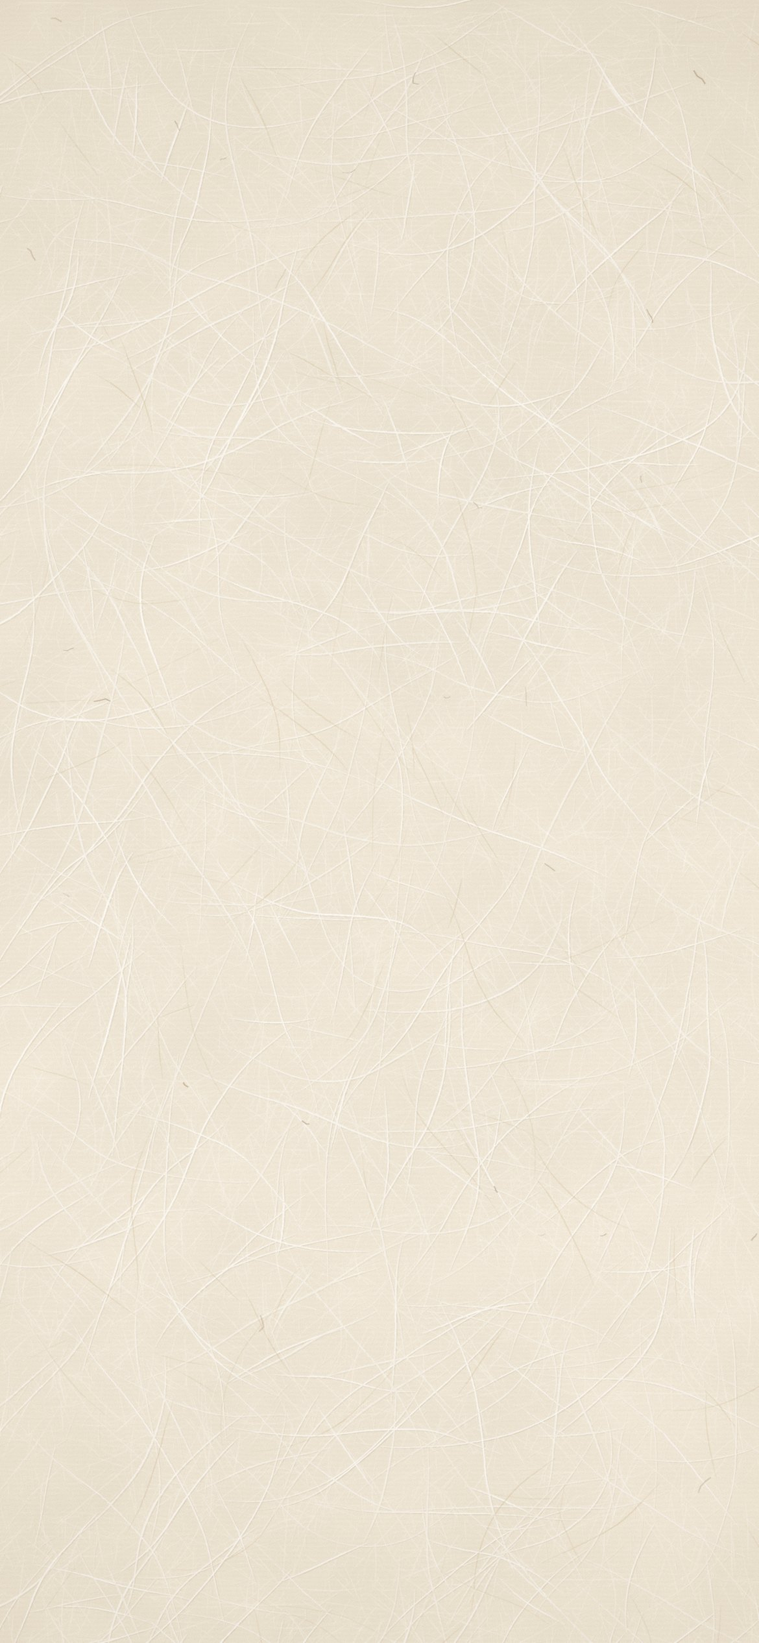
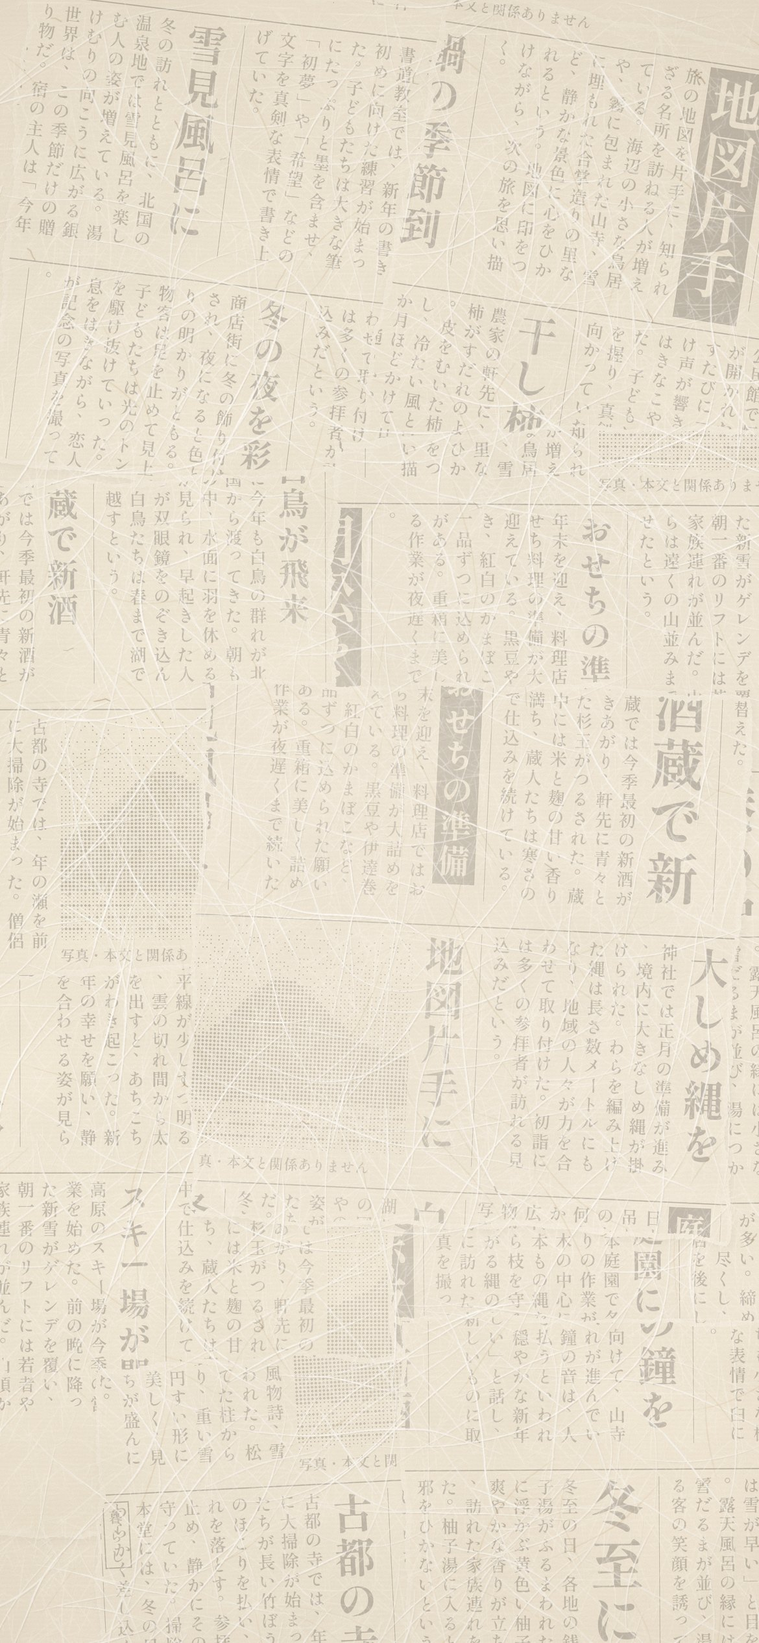
Calendrier de l'Avent (mode développeur) : l'écharpe du mouton autour du cou, des journaux sous le washi du fond d'écran du prénom.
Le propriétaire : « remets bien l'écharpe du mouton. Et tu peux mettre aussi des papiers journaux en arrière-plan du washi sur le fond d'écran. »

- Carte de vœux (case 15) : l'écharpe est un col qui passe sous la mâchoire et dont les bouts remontent derrière la tête, le nœud et ses deux pans frangés devant, à droite du menton (la bande d'avant paraissait coupée).
- Case 1 : sous le papier washi, on devine des morceaux déchirés de journal japonais (colonnes verticales, titres, filets, quelques « photos » en trame). Les pages sont inventées : 24 articles écrits pour ce fond (l'hiver, les temples, les onsen, le nouvel an), sans personne réelle, sans fait divers ni nom de journal ; police Shippori Mincho B1 (OFL), celle de la boutique. Le journal est plus discret derrière la colonne du prénom.

diff --git a/instructions/carte.md b/instructions/carte.md
@@ -410,14 +410,14 @@ On 2026-11-10 the owner asked to prepare Christmas: an Advent calendar from 1 to
 - **When.** `CONFIG.noel = { debut: '2026-12-01', fin: '2026-12-26', public: false }`. `noelVoulu` (`app.js`): never after `fin` nor with `?ambiance=non`; always in developer mode before `fin` (also before `debut`, to prepare it); else only if `public`, from `debut`. `majNoel` runs like `majHalloween` (1.8 s after start, every minute, in `basculerDev`).
 - **`noel.js`** (its own `TEXTES`, en/fr/ja for the interface). `CASES`: `j`, `k` (`boutique`, `telecharger`, `balade`, `carte`), `lieu` (the place's id: slug of its English name, as in `?voyage=`), `pret` (the gift exists), `special` (`prenom`), `fichier` (a download: see « The downloads »), `code`, and `cadeau`/`texte`/`deco`/`savais` in en and fr (`cadeau` also in ja; the rest falls back to English in Japanese: write it before the release). `jourReel()`: 0 before 1 December, 1–24, 25 after (local dates, days counted between local midnights with `Math.round` for the clock change). Opened boxes: `localStorage.calendrierOuvert`. **Developer mode** adds a « Simulated day » range (24 by default before December) and « Close every box »; boxes opened while simulating are kept apart (`calendrierOuvertEssai`), so the owner's real calendar starts empty.
 - **The panel** (`#panneau-noel`, a `PANNEAUX` entry, `ouvrirNoel`; button `#btn-noel` with a gift icon, also a phone shortcut top right beside 3D and favourites, sized like Halloween's three; phone menu tile `#menu-noel`). Doors in 5 columns, 24 spanning two: locked (`.a-cle`, a toast says when it opens), today (`.du-jour`, red rule), opened (`.ouverte`: the paper leaf turns away, 550 ms, then the box shows under the doors and scrolls into view). A red dot on the button and the menu tile (`.a-ouvrir`) while today's box is closed. The box: date, gift, kind pill, text, its special block, « Being made » (developer mode only) while `pret` is false, the place (« See the place and its video »: `allerAuLieu`, closes the panel), « On the map today », « Did you know? ».
-- **Gifts ready.** Day 1, « Your name in Japanese » (`fondPrenom`): a 1170 × 2532 PNG on washi paper (2026-11-22, the owner: « le fond du fond d'écran du prénom peut être en style papier washi »): `noel/washi.jpg` (1170 × 2532, about 300 KB, drawn with its darker edges) and `noel/washi-apercu.jpg` (312 × 675, the box's preview), both computed by `washi.py` (the 2026-11-21/22 session's `scratchpad/noel`, fixed seed): a cream pulp with soft clouds, faint bamboo-screen lines, a felt of short fibres, long white kōzo fibres that taper and wave gently (curvature that returns to zero: a free random walk curled them into hair-like loops, a damped one too much made straight scratches) with a thin shadow on one side, a few gold fibres and few pale bark strands (dark specks looked like dust on the screen); it replaced newspaper #ece0d0 with the map's grain. The katakana in one column centred at 58 % of the height (the top is left to the lock-screen clock; `ー` turned upright, small kana nudged up and right), the name in spaced capitals, INKAMI.ART, the 墨紙 seal (`noel/sceau-inkami.png`). The preview's seal and INKAMI.ART have the image's sizes too (`cqw`, % of the frame; they were 17 px and 4.5 px, larger than on the image). The live preview in the box is that wallpaper in small (2026-11-22, the owner: « quand tu écris un nom un peu trop grand, ça dépasse de l'écran »): the same sizes and places (`FOND_L`, `FOND_H`, `FOND_COLONNE`, `FOND_CENTRE`, `tailleFond` in `noel.js`), the column's top and the name's line in % of the height, their sizes in `cqw` (the phone frame is a size container); it used its own sizes (the column 190 px in a 225 px frame) and an 8-letter name ran out of it. A very long name in letters is squeezed: `scale` on the canvas, `scaleX` on the preview (one measure per key typed). The brush is the shop's own font (`noel/inkami-pinceau.woff2`: Yuji Boku cut to katakana + 芸者侍, OFL) and `enKatakana` is copied from the shop's `theme/source/katakana.js` (plus Emily, James, Louise, the names of its calligraphy videos); a live HTML preview while typing; share sheet on touch screens, download elsewhere. Day 20, « Christmas night over Japan »: `noel/fond-nuit-de-noel-{l}.jpg`, see the downloads below.
+- **Gifts ready.** Day 1, « Your name in Japanese » (`fondPrenom`): a 1170 × 2532 PNG on washi paper (2026-11-22, the owner: « le fond du fond d'écran du prénom peut être en style papier washi »): `noel/washi.jpg` (1170 × 2532, about 300 KB, drawn with its darker edges) and `noel/washi-apercu.jpg` (312 × 675, the box's preview), both computed by `washi.py` (the 2026-11-21/22 session's `scratchpad/noel`, fixed seed): a cream pulp with soft clouds, faint bamboo-screen lines, a felt of short fibres, long white kōzo fibres that taper and wave gently (curvature that returns to zero: a free random walk curled them into hair-like loops, a damped one too much made straight scratches) with a thin shadow on one side, a few gold fibres and few pale bark strands (dark specks looked like dust on the screen); it replaced newspaper #ece0d0 with the map's grain. Under the washi, torn pieces of Japanese newspaper show through (the same evening, the owner: « tu peux mettre aussi des papiers journaux en arrière-plan du washi », like Inkami's portraits on real newspaper): `journal.py` (same folder) sets invented pages (bands of vertical columns, headlines sometimes white on black, thin rules, a few halftone « photos » of a made-up landscape captioned 写真・本文と関係ありません, small section boxes) in Shippori Mincho B1 (OFL, the shop's font), from 24 articles written for it (winter, temples, onsen, New Year customs; no real person, no news story, no newspaper name: the real Sankei scan tried for the shop had an obituary and murders behind the face), then tears 9 pieces (one page each with a different first article, or the same headlines came back four times), smooth torn edges with a 2–10 px white rim of torn core, small shadows, a few degrees of turn. `washi.py` multiplies the pulp by the collage at strength 0.22 (`--transparence=`; 0.32 competed with the name), 30 % less behind the name's column, before the fibres, which stay bright over the print. washi.jpg is now about 520 KB. The katakana in one column centred at 58 % of the height (the top is left to the lock-screen clock; `ー` turned upright, small kana nudged up and right), the name in spaced capitals, INKAMI.ART, the 墨紙 seal (`noel/sceau-inkami.png`). The preview's seal and INKAMI.ART have the image's sizes too (`cqw`, % of the frame; they were 17 px and 4.5 px, larger than on the image). The live preview in the box is that wallpaper in small (2026-11-22, the owner: « quand tu écris un nom un peu trop grand, ça dépasse de l'écran »): the same sizes and places (`FOND_L`, `FOND_H`, `FOND_COLONNE`, `FOND_CENTRE`, `tailleFond` in `noel.js`), the column's top and the name's line in % of the height, their sizes in `cqw` (the phone frame is a size container); it used its own sizes (the column 190 px in a 225 px frame) and an 8-letter name ran out of it. A very long name in letters is squeezed: `scale` on the canvas, `scaleX` on the preview (one measure per key typed). The brush is the shop's own font (`noel/inkami-pinceau.woff2`: Yuji Boku cut to katakana + 芸者侍, OFL) and `enKatakana` is copied from the shop's `theme/source/katakana.js` (plus Emily, James, Louise, the names of its calligraphy videos); a live HTML preview while typing; share sheet on touch screens, download elsewhere. Day 20, « Christmas night over Japan »: `noel/fond-nuit-de-noel-{l}.jpg`, see the downloads below.
 - **The downloads** (owner: « Oui, commence par les téléchargements », 2026-11-10). A box's `fichier` = `{ apercu, url, nom, forme, bouton }` (`{l}` in a path = the visitor's language, fr/en/ja, else en): `blocFichier` shows the preview shaped like the thing (`telephone`, `page`, `carte`, `paysage`) and a button (`fond`, `pdf`, `image`) that fetches the file and sends it to the share sheet on touch screens, else downloads it. All are made once in `site/noel/` from the 2026-11-10 session's `scratchpad/noel/`: `atelier/*.html` are print pages served with the site by `atelier_serveur.py` (127.0.0.1:8124: the site at the root, `/atelier/` the workshop, so they import `/legendes-dessins.js` and share the map's paper and fonts), turned into PDF or PNG by `fabriquer.py <name> [--essai]`.
   - Day 3, `calendrier-2027.pdf` (5.8 MB, A4 landscape, a cover and 12 months, one file for every language): each month a view of the map at its season, rendered by `rendu_calendrier.py` (`?date=2027-MM-DD&heure=11:00`, the borders' layers `lavis*`/`frontieres*` hidden, the HTML markers too, the canvas pins kept; 1600 px JPEG): Gokayama, Lake Kussharo, Fujisan Hongū (cherry petals), Himeji (cherry petals), Fuji Shibazakura, Yakushima, Nachi, Aogashima, Takeda Castle, Nikkō (autumn), Itsukushima (maple leaves), Lake Yamanaka. The map's season particles show by themselves. TikTok covers were too small to print (486 × 648) and the montage videos are not all the owner's footage, so none is used. Weekdays in kanji + English, Saturday blue, Sunday and Japan's 2027 public holidays red, each holiday named (元日 · New Year's Day…, the equinoxes on 21 March and 23 September, substitute holiday 22 March); six-week months get shorter rows.
   - Day 6, `fond-fuji-hiver.jpg` (1170 × 2532): since 2026-11-21 a real photo, see « Real photos for the place wallpapers » below. Until then a map render (`fond_fuji.py`: Fuji from Lake Yamanaka on 2026-12-20 at 15:30, bearing 246, zoom 10.9, pitch 72, with `?points=non` so every pin is an HTML marker and can be hidden, the pins being otherwise drawn on `points.js`'s canvas; borders hidden; the logo band).
   - Day 7, `mots-hiver-{l}.pdf` (2026-11-21, the owner: « un petit document où il y a marqué des mots japonais en rapport avec l'hiver et Noël avec la traduction en anglais et français et une petite description explicative »; about 310 KB, 740 KB in Japanese). Two A4 pages, 24 words, one per day of Advent: winter (冬, 雪, 初雪, 雪だるま, かまくら, こたつ, 鍋, 温泉, 雪見, 樹氷, 冬至, 焼き芋), then Christmas and the New Year (クリスマス, メリークリスマス, サンタさん, クリスマスケーキ, フライドチキン, イルミネーション, お歳暮, 忘年会, 大掃除, 大晦日, 年賀状, お正月). Each: the word in Zen Antique, its hiragana and rōmaji, the English and French translations (red EN/FR labels, the document's language first; 英/仏 in Japanese), and one or two sentences in the document's language; page 2 ends with « あけましておめでとうございます / よいお年を » (in Japanese: Happy New Year / Bonne année). Each word also has a small drawing at its top right (the owner the same day: « si tu peux rajouter quelques illustrations aussi »; and « Le document doit être écrit en français pour la carte en français et en anglais pour la carte en anglais », which it already was): 24 SVG icons in `illus.py`, ink outlines and flat colours like the legends' drawings of the gift tags (a snowy pine, flakes, a cloud, a two-ball snowman with a red bucket, a lit kamakura, a kotatsu with mandarins, a donabe, ♨, sake flask and cup, two snow monsters, yuzu in the bath, a split sweet potato, a decorated tree, two bells, Santa's hat, the strawberry cake, a drumstick, a string of lights, a gift box with mizuhiki, two beer mugs, broom and bucket, the temple bell and its log, a 賀正 card, a kagami-mochi), 40 px, with the word and translation lines padded on the right to leave them room; katakana words of 7 characters or more are set smaller so their rōmaji stays on the line. Map paper, the logo and address at the foot. Made by `mots_hiver.py` (the 2026-11-21 session's `scratchpad/noel`; the words and texts are in it): an HTML page served through a Playwright route on the local server (the logo and the map's fonts), `page.pdf`, the preview = page 1 at 420 × 594. French gets non-breaking spaces before « ; : ! ? » and inside guillemets, English gets “ ”.
   - Day 9, `origami-{l}.pdf` (3 pages, about 2.8 MB; the owner: « Oui, fais l'origami et Gokayama »): two 180 mm squares to cut out, crop marks at the corners, the printed side being the crane's outside: seigaiha waves in the map's sea colours (`#1d5652`, `#8fbab2`) and asanoha hemp leaves in the map's red with pale-gold lines (a triangular lattice and, in each triangle, the lines from its corners to its centre), each with a short note on the pattern's meaning; page 3 the crane in 12 steps (3 × 4 panels, captions of at most three lines in all three languages, a key: valley, mountain, turn over). The panels are computed, not drawn by hand (`origami.html`: a square of side 2 laid as a diamond; the kite folds are the bisectors from the bottom point, the petal fold the reflection of the bottom point over the horizontal crease, the narrowing the bisector again, neck and tail the leg triangle reflected over a crease that bisects « down » and the neck's 65° direction, the head the same at 0.24 from the tip), so every shape is where the paper really goes; only the finished crane (step 12) is drawn by hand. `regarder_ori.py [lang] [from] [to]` shows a few panels at 3×.
   - Day 13, `fond-gokayama-neige.jpg` (1170 × 2532): since 2026-11-21 a real photo, see below. Until then (`fond_gokayama.py`) the walk itself (`balade/index.html?lieu=gokayama&demo`), winter (`balade.changerSaison('hiver', { tout: true })`), night (`balade.jeu.nuit(true)`), traveller and companion hidden (`jeu.cacherVoyageur(true)`), the interface hidden (`body.photo`), the camera placed like the binoculars' (`M.cadre = { de, vers, champ }`, heights above the place's ground), the frames stepped with `__pas(0.05)`. The house g7 from the south-west (camera at −7, 12.5 m up, 79; looking at 26, 4, 44; 52°), a second house behind, a stone lantern. Lessons: `jeu.nuit()` returns a promise that resolves only once night has fallen, and in `?demo` nothing falls without `__pas`: an `evaluate` that returns it hangs (end it with `; 0`). The moon lights from the south-west (`soleil: [-0.45, 0.72, 0.52]`): seen from the north-east the roofs were navy blue, from the south-west white. `document.fonts.check` stayed false for Zen Antique (its Japanese subsets): wait with `document.fonts.load(font, text)` instead. From the riverbank (z > 85) the camera sits below the bank's edge.
-  - Day 15, `nengajo-2027-{l}.jpg` (1748 × 1181, 148 × 100 mm at 300 dpi): 謹賀新年, a sheep (未, 2027) with a red scarf before Fuji and the first sunrise, a pine, 令和九年 元旦, the greeting in the language. The sheep was redrawn on 2026-11-22 (the owner: « il est mal fait, il y a certaines formes qui vont pas »), computed by `mouton.py` (the 2026-11-21/22 session's `scratchpad/noel`; it writes into `atelier/nengajo.html`): a fleece of 20 even scallops on an ellipse (`feston`, flatter under the belly) with a soft belly shade and wool curls, a tail puff, an egg-shaped beige face turned toward the sunrise with eyes, blush, muzzle and nostrils, two leaf ears and a woolly topknot, slim legs with hooves (the far pair darker), the scarf knotted under the chin with two fringed tails; 1.2× larger, facing right. Then the same evening (the owner: « il faut accrocher la tête du mouton »: it stood beside the fleece, touching it at one point): the head sits lower and further back (`TETE`), its back half over the front of the fleece, so the neck is hidden and the far ear lies on the wool (a higher head left a hollow of background between ear, head and fleece; a tuft added to fill it showed its own outline there); the scarf band comes out from under the head with a rounded end, under the chin (`ECHARPE`, `NOEUD`). `mouton_variantes.py variantes.json` draws several settings side by side. The same day: Fuji's snowcap as pointed streaks (clipped by the mountain), and the snow ground fades into the paper (it showed a box edge).
+  - Day 15, `nengajo-2027-{l}.jpg` (1748 × 1181, 148 × 100 mm at 300 dpi): 謹賀新年, a sheep (未, 2027) with a red scarf before Fuji and the first sunrise, a pine, 令和九年 元旦, the greeting in the language. The sheep was redrawn on 2026-11-22 (the owner: « il est mal fait, il y a certaines formes qui vont pas »), computed by `mouton.py` (the 2026-11-21/22 session's `scratchpad/noel`; it writes into `atelier/nengajo.html`): a fleece of 20 even scallops on an ellipse (`feston`, flatter under the belly) with a soft belly shade and wool curls, a tail puff, an egg-shaped beige face turned toward the sunrise with eyes, blush, muzzle and nostrils, two leaf ears and a woolly topknot, slim legs with hooves (the far pair darker), the scarf knotted under the chin with two fringed tails; 1.2× larger, facing right. Then the same evening (the owner: « il faut accrocher la tête du mouton »: it stood beside the fleece, touching it at one point): the head sits lower and further back (`TETE`), its back half over the front of the fleece, so the neck is hidden and the far ear lies on the wool (a higher head left a hollow of background between ear, head and fleece; a tuft added to fill it showed its own outline there); then (the owner: « remets bien l'écharpe du mouton »: that band looked cut off) the scarf is a crescent collar in the head's frame (`COL`, `COL_RAYURE`), drawn before the head: it passes under the jaw, its ends go up behind it at chin height (up to the cheeks it framed the face like a hood), the knot and its two fringed tails in front, right of the chin (`NOEUD`). `mouton_variantes.py variantes.json` draws several settings side by side. The same day: Fuji's snowcap as pointed streaks (clipped by the mountain), and the snow ground fades into the paper (it showed a box edge).
   - Day 18, `etiquettes-{l}.pdf` (2 pages): eight tags with the legends' drawings (tanuki, kitsune, the moon rabbit, Yuki-onna, Kintarō, Momotarō, Kaguya-hime, kappa), « Pour / De » lines; page 2 the furoshiki wrap in four drawn steps.
   - Day 20, `fond-nuit-de-noel-{l}.jpg` (redone 2026-11-12, the owner: « sans les points des lieux et en rendant un style un peu plus Noël »; `fond_noel2.py`): the map on 2026-12-24 at 21:30 (bearing 36, centre 137.75 / 37.0, zoom 4.12) with `?points=non` and every marker hidden (no pins, no city icons, no sea names), the `lavis*`/`frontieres*` layers hidden, the `saison-neige` fill set to a moonlit `#c3cde2` at 0.55 (set again just before the capture: the map puts its own colours back), then a canvas drawn in the page: a blue-night vignette, the illuminations (a gold glow and red, green, white and blue points at each `VILLES` city, bigger for Tokyo and Osaka), a garland of bulbs in two swags along the top (above the lock-screen clock), snowflakes (soft blurred ones, small dots, eight drawn crystals), and the title in the Pacific in the map's fonts (« Joyeux Noël » / « Merry Christmas » on two lines in IM Fell English italic, « メリークリスマス » in Zen Antique for Japanese, the other language under it) with a holly sprig; the logo band and the sources as before. One file per language. **Sharper since 2026-11-22** (the owner: « quand tu zoomes un petit peu sur la carte, il est pixelisé »): two causes. Headless Edge draws without a GPU, so `qualite.js` chose « très légère » (terrain textures 1024, the relief blurry): the script now forces `localStorage.qualite = { impose: 'fine' }`. And MapLibre picks its relief tiles from the size in CSS pixels, with a pixel ratio of at most 2: at 390 × 844 × 3 it drew zoom-4 tiles on a 780 × 1688 canvas, stretched 3.3 times. It now renders 585 × 1266 × 2 (the same 1170 × 2532 image), zoom 4.12 + log2 1.5 (tiles of zoom 5), the decorations drawn in the 390-wide frame scaled by 1.5 and the band with CSS `zoom`; JPEG quality 93 (about 500 KB). The water rings and coast lines are 2 device pixels instead of 3. The script's later retouches of 2026-11-12 had been made by Python patches the log replays (the moonlit snow `#c3cde2`, the title's place and sizes); Windows had emptied the scratchpad again, rebuilt by `recuperer.py` (Write/Edit of the session's log) plus those patches.
   - Day 23, `recette-{l}.pdf`: the strawberry shortcake for an 18 cm tin (3 eggs, 90 g sugar, 90 g flour, 20 g butter, 20 ml milk; syrup; 400 ml cream, 35 g sugar; 500 g strawberries), 9 steps, the 1974 fried-chicken fact. The cake drawing was redone on 2026-11-22 (the owner: « l'image du gâteau, faut que tu la refasses parce qu'elle est un peu mal faite »), computed in perspective by `gateau.py` (same scratchpad; it writes into `atelier/recette.html`): a cylinder seen from three-quarters with a slice cut from the front (angles 62°–108°), its two cut faces in layers (cream, sponge with holes, cream with halved strawberries, sponge, cream), a crown of piped cream rosettes topped with whole strawberries (seeds, highlight), the chocolate « Merry Christmas » plaque, a piped border at the foot, on a plate. The steps were set a little smaller (10 pt, gap 2.2 mm): in this Edge the last step ran under the « Did you know? » box; `fabriquer.py` now refuses a page whose steps overflow or run under the next block.

diff --git a/LISEZMOI.md b/LISEZMOI.md
@@ -169,7 +169,7 @@ Du 1er au 24 décembre, une case s'ouvre chaque jour (à minuit chez chaque visi
   - **22, le bain de yuzu** : à partir du 22, un yuzu flotte à côté de chaque onsen de la carte. Les trouver tous donne un koban pour la boutique de Bunbuku, dans la balade 3D.
   - **24, la nuit de Noël** : six Jizō de pierre, en vraies petites statues 3D, attendent sous la neige en rang devant le temple du Murō-ji, trois de chaque côté de l'escalier ; on touche chacun pour lui poser un chapeau de paille, et ils offrent le bonnet de Père Noël de la balade (le bonnet lui-même est encore à faire dans la balade, avec les autres habits d'hiver). Le bouton « Voir les six Jizō » de la case emmène jusqu'à eux. La nuit, le traîneau du Père Noël, tiré par quatre rennes (Rudolph devant, avec son nez rouge), traverse le ciel de la carte juste sous les boutons du haut, en lâchant des cadeaux.
   - En mode développeur, avant décembre, tout se voit déjà sur la carte (comme le 24). Les yuzus et les chapeaux trouvés pendant ces essais sont gardés à part, et ne donnent ni vrai koban ni vrai bonnet.
-- **Tes remarques du 22 novembre**, toutes faites : un long prénom ne déborde plus de l'aperçu de la case 1 ; plus de mention de la photo sur les fonds d'écran 6 et 13 ; le kanji de l'année se met à jour tout seul ; un nouveau traîneau avec de vrais rennes et des cadeaux qui tombent, qui ne passe plus derrière les bandeaux ; le mouton de la carte de vœux redessiné (et la neige du Fuji) ; le fond d'écran de la carte (case 20) deux fois plus net ; le gâteau de la recette redessiné (avec une part coupée qui montre la génoise, la crème et les fraises) ; les six Jizō autour du temple. Puis le même soir : la tête du mouton est bien accrochée à sa toison, et le fond d'écran du prénom est sur du papier washi (avec ses fibres).
+- **Tes remarques du 22 novembre**, toutes faites : un long prénom ne déborde plus de l'aperçu de la case 1 ; plus de mention de la photo sur les fonds d'écran 6 et 13 ; le kanji de l'année se met à jour tout seul ; un nouveau traîneau avec de vrais rennes et des cadeaux qui tombent, qui ne passe plus derrière les bandeaux ; le mouton de la carte de vœux redessiné (et la neige du Fuji) ; le fond d'écran de la carte (case 20) deux fois plus net ; le gâteau de la recette redessiné (avec une part coupée qui montre la génoise, la crème et les fraises) ; les six Jizō autour du temple. Puis le même soir : la tête du mouton est bien accrochée à sa toison, et le fond d'écran du prénom est sur du papier washi (avec ses fibres), avec des morceaux de journal japonais qu'on devine à travers (des articles inventés sur l'hiver au Japon). L'écharpe du mouton fait de nouveau le tour de son cou.
 - **Les autres cadeaux** (les habits d'hiver de la balade et les cases de la boutique) affichent « En préparation » (en mode développeur seulement). Ils seront faits avant décembre.
 - **Les cases de la boutique Inkami** (4, 10, 17 et 21) montrent un code d'exemple et un lien vers la boutique. Les vrais codes seront créés dans Shopify avec ton accord.
 - **Pour l'essayer maintenant :** passe en mode développeur. Le calendrier se voit déjà, comme si on était le 24 décembre. Une réglette « Jour simulé » montre comment il se présente un autre jour. Les cases ouvertes pendant ces essais sont gardées à part : ton vrai calendrier restera tout neuf le 1er décembre.
